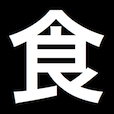
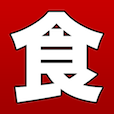
Updating design and incrementing version number

diff --git a/Maishoku/Maishoku/SignUpViewController.m b/Maishoku/Maishoku/SignUpViewController.m
@@ -13,7 +13,6 @@
 
 @implementation SignUpViewController
 
-@synthesize label;
 @synthesize usernameTextField;
 @synthesize passwordTextField1;
 @synthesize passwordTextField2;
@@ -42,7 +41,6 @@
 - (void)viewDidLoad
 {
     [super viewDidLoad];
-    [label setTextColor:MAISHOKU_RED];
     [submitButton setTitle:NSLocalizedString(@"Submit", nil) forState:UIControlStateNormal];
     [usernameTextField setPlaceholder:NSLocalizedString(@"Username", nil)];
     [passwordTextField1 setPlaceholder:NSLocalizedString(@"Password", nil)];
@@ -224,7 +222,6 @@ static NSString *emailRegex =
     [self setPasswordTextField1:nil];
     [self setPasswordTextField2:nil];
     [self setToolbar:nil];
-    [self setLabel:nil];
     [self setSpinner:nil];
     [self setEmailTextField:nil];
     [self setPhoneNumberTextField:nil];

diff --git a/Maishoku/Maishoku/LoginViewController.m b/Maishoku/Maishoku/LoginViewController.m
@@ -45,7 +45,6 @@
 {
     [super viewDidLoad];
     [self setLoginButtonState];
-    [label setTextColor:MAISHOKU_RED];
     [usernameTextField setPlaceholder:NSLocalizedString(@"Username", nil)];
     [passwordTextField setPlaceholder:NSLocalizedString(@"Password", nil)];
     [loginButton setTitle:NSLocalizedString(@"Login", nil) forState:UIControlStateNormal];
@@ -89,6 +88,7 @@
 - (IBAction)signup:(id)sender
 {
     UIViewController *newAddressViewController = [UIAppDelegate.storyboard instantiateViewControllerWithIdentifier:@"SignUpViewController"];
+    [newAddressViewController setModalTransitionStyle:UIModalTransitionStyleFlipHorizontal];
     [self presentModalViewController:newAddressViewController animated:YES];
 }
 

diff --git a/Maishoku/Maishoku/SignUpViewController.h b/Maishoku/Maishoku/SignUpViewController.h
@@ -11,7 +11,6 @@
 
 @interface SignUpViewController : UIViewController <UITextFieldDelegate, UIAlertViewDelegate, RKRequestDelegate>
 
-@property (weak, nonatomic) IBOutlet UILabel *label;
 @property (weak, nonatomic) IBOutlet UITextField *usernameTextField;
 @property (weak, nonatomic) IBOutlet UITextField *passwordTextField1;
 @property (weak, nonatomic) IBOutlet UITextField *passwordTextField2;

diff --git a/Maishoku/Maishoku/AppDelegate.h b/Maishoku/Maishoku/AppDelegate.h
@@ -16,7 +16,7 @@
 
 #define API_VERSION @"1.0"
 
-#define MAISHOKU_RED [UIColor colorWithRed:0.78 green:0.0 blue:0.0 alpha:1.0]
+#define MAISHOKU_RED [UIColor colorWithRed:0.7843 green:0.0 blue:0.0 alpha:1.0]
 
 enum OrderMethod {
     delivery = TRUE, pickup = FALSE
